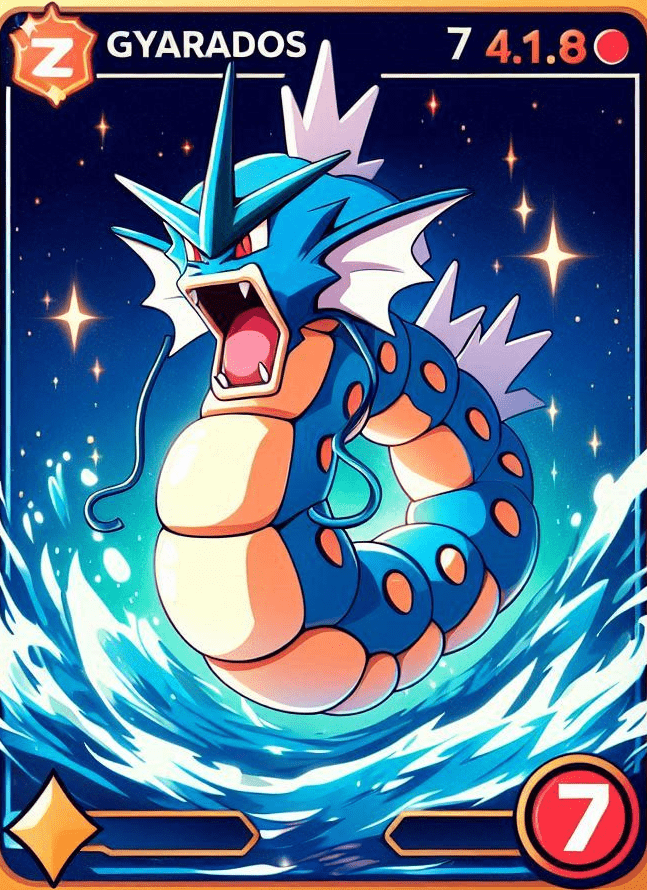
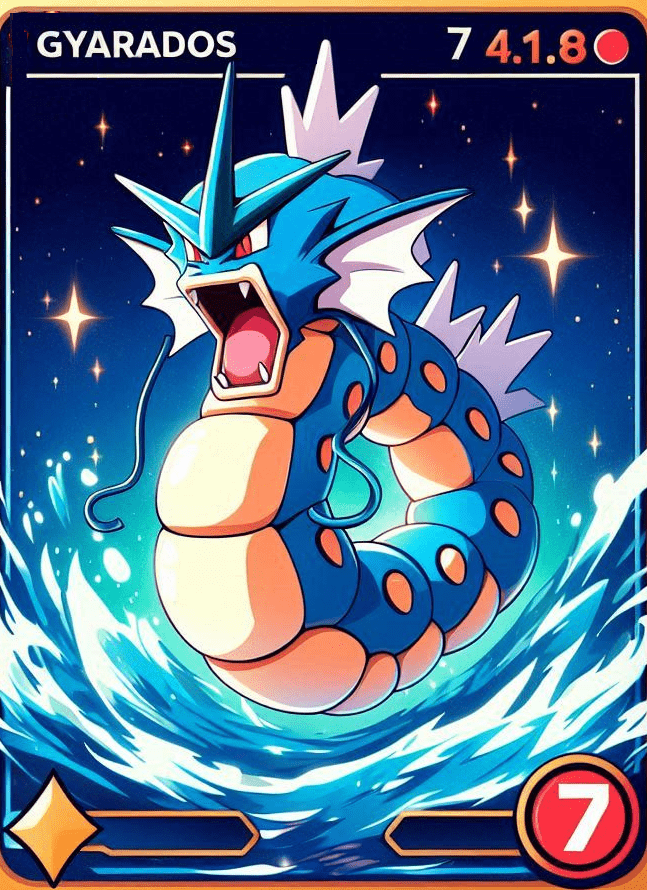
ajuste na posição do placar e das cartas com numeros pequenos

Changed region(s): [[0.0, 0.0, 0.4946, 0.1213]]

diff --git a/src/routes/game/index.css b/src/routes/game/index.css
@@ -240,7 +240,7 @@
 
 #placar {
     position: absolute;
-    bottom: 5%;
+    bottom: 8%;
     right: 1%;
     display: inline;
     text-align: right;
